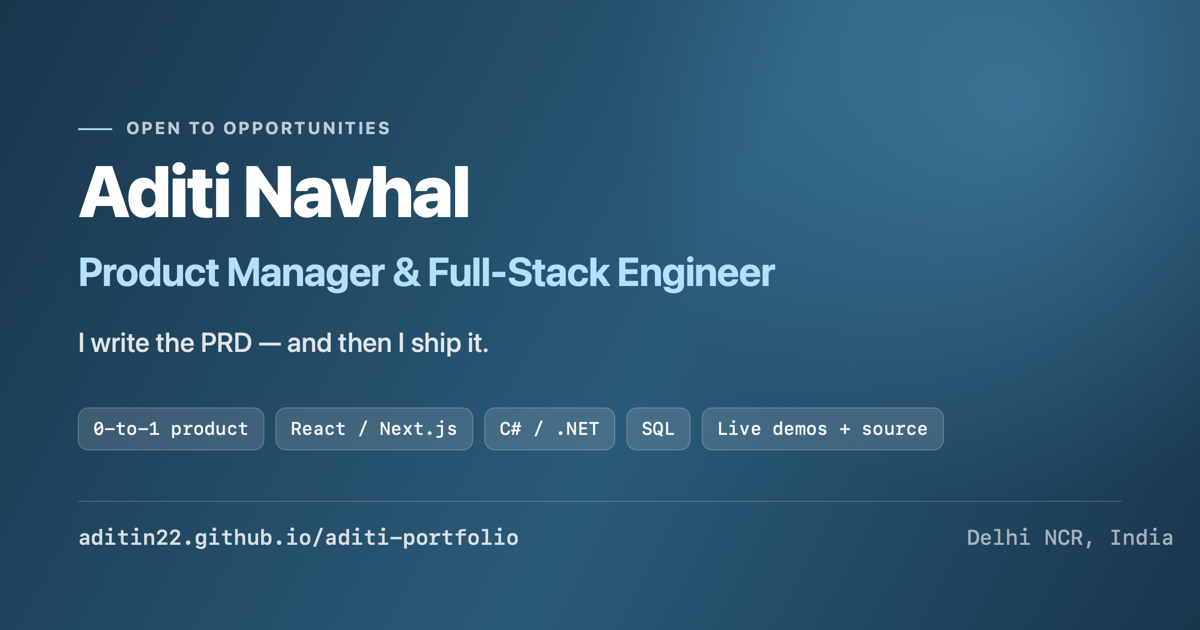
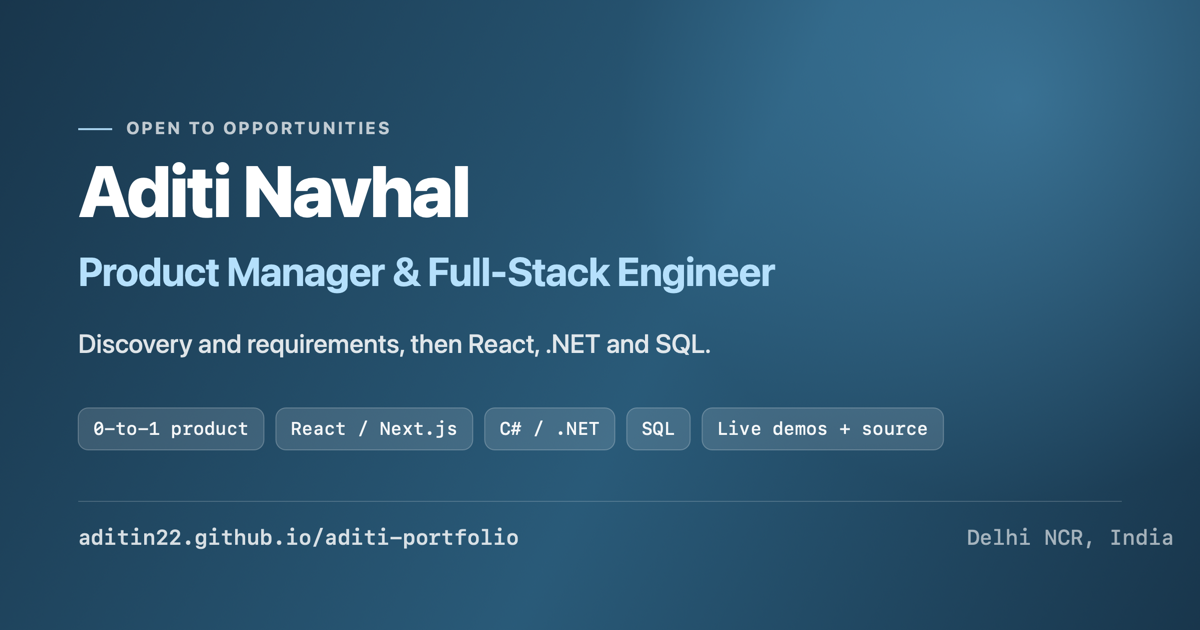
Label UrjaSetu as freelance, drop em dashes, quiet the copy
UrjaSetu was reading as a third employer. It is a freelance engagement:
labelled as one on the project card, in the experience timeline and in
the section copy, and the Experience heading no longer counts it as a
company.

Remove the em dash from the site and the OpenGraph card.

Tone pass so the work carries the claim rather than the wording: the
hero and band describe what the job involves instead of asserting it,
Aurora UI states what its CI does without the aside about other
libraries, and the roles line in Contact drops its editorial tail.

Changed region(s): [[0.0617, 0.5127, 0.5858, 0.573]]

diff --git a/src/data/resume.ts b/src/data/resume.ts
@@ -7,7 +7,7 @@ export const profile = {
   /** The two halves, named. Rendered as the hero's stack rail. */
   tagline: ['Discovery & PRDs', 'Roadmap', 'React / Next.js', 'C# / .NET', 'SQL'],
   positioning:
-    'I write the PRD and then I ship it. Three years across fintech, legaltech and industrial B2B - customer journeys, prioritisation and unit economics on one side; React, .NET and SQL on the other.',
+    'Three years across fintech, legaltech and industrial B2B. I run the discovery and write the requirements, then build the product in React, Next.js, C# and SQL.',
   years: 3,
   /** Served from public/; resolved against the Vite base at render time. */
   resumeFile: 'Aditi_Navhal_Resume.pdf',
@@ -22,7 +22,7 @@ export const profile = {
   linkedin: 'https://www.linkedin.com/in/aditi-navhal-952b57193/',
   github: 'https://github.com/aditin22',
   summary:
-    'Product-focused engineer with 3 years across fintech, legaltech and industrial B2B. I run discovery with stakeholders, author the PRDs and BRDs, own the roadmap - and then build the thing in React, Next.js, TypeScript and C#/.NET over SQL Server and PostgreSQL. Shipped a 0-to-1 buyer platform, a four-surface services platform that reached 500+ sign-ups in one filing season, an offline-to-cloud financial sync service, and a hedge-fund reconciliation platform modernisation.',
+    'Product-focused engineer with 3 years across fintech, legaltech and industrial B2B. I run discovery with stakeholders, author the PRDs and BRDs and own the roadmap, then build in React, Next.js, TypeScript and C#/.NET over SQL Server and PostgreSQL. Shipped a 0-to-1 buyer platform as a freelance engagement, a four-surface services platform that reached 500+ sign-ups in one filing season, an offline-to-cloud financial sync service, and a hedge-fund reconciliation platform modernisation.',
 }
 
 /** Six figures: three product outcomes, three engineering ones. */
@@ -81,10 +81,10 @@ export const projects: Project[] = [
     index: '01',
     name: 'UrjaSetu BioEnergy',
     kicker: '0-to-1 buyer platform for industrial biomass fuel',
-    org: 'Client project',
+    org: 'Freelance',
     period: 'Sep 2026 - Present',
     accent: 'data',
-    hat: 'Product Manager',
+    hat: 'Product + build',
     split: { product: 70, engineering: 30 },
     problem:
       'Factories across Delhi NCR buy boiler fuel over WhatsApp and phone calls - no published specifications, no comparable pricing, and no way to tell a real supplier from a broker reselling someone else’s stock.',
@@ -94,7 +94,7 @@ export const projects: Project[] = [
       'Shipped the first version for client review in October and folded their feedback straight back in; they now demo it to existing buyers ahead of an IndiaMART and Google launch. 15+ analytics events instrument quotes, recommendations, calculator runs and contacts.',
     links: [
       { label: 'Live site', href: 'https://urjasetu-alpha.vercel.app', kind: 'demo' },
-      { label: 'Repo is private - client project', href: '', kind: 'internal' },
+      { label: 'Repo is private, client work', href: '', kind: 'internal' },
     ],
     stack: ['Next.js', 'TypeScript', 'Tailwind CSS', 'Framer Motion', 'Vercel'],
   },
@@ -133,9 +133,9 @@ export const projects: Project[] = [
     problem:
       'Component libraries look right and fall apart the moment you unplug the mouse. The hard problems in a design system are focus management, keyboard navigation and ARIA relationships that stay correct as content changes.',
     did:
-      'Built 12 components with no headless-UI dependency - no Radix, no react-aria - implementing the focus trap, roving tabindex, typeahead, scroll lock and inert handling myself and exporting them as hooks, on a two-layer token system where dark mode redefines only the semantic layer.',
+      'Built 12 components with no headless-UI dependency, writing the focus trap, roving tabindex, typeahead, scroll lock and inert handling myself and exporting them as hooks, on a two-layer token system where dark mode redefines only the semantic layer.',
     happened:
-      'axe-core runs against every story and fails CI rather than filling a warning panel nobody reads. 16.3 kB brotli, ESM-only and correctly externalised, with every interaction test a story you can open and watch replay.',
+      'axe-core runs against every story and fails CI, so an accessibility regression blocks the build instead of landing. 16.3 kB brotli, ESM-only and correctly externalised, with every interaction test a story you can open and watch replay.',
     links: [
       { label: 'Live Storybook', href: 'https://aditin22.github.io/aurora-ui/storybook/', kind: 'demo' },
       { label: 'GitHub repo', href: 'https://github.com/aditin22/aurora-ui', kind: 'repo' },
@@ -191,6 +191,8 @@ export const projects: Project[] = [
 export type Role = {
   company: string
   companyNote?: string
+  /** Shown as a neutral chip where the engagement is not a staff role. */
+  kind?: string
   title: string
   location: string
   period: string
@@ -211,12 +213,13 @@ export type Role = {
 export const experience: Role[] = [
   {
     company: 'UrjaSetu BioEnergy',
-    title: 'Product Manager (client project)',
+    title: 'Product manager and developer',
+    kind: 'Freelance',
     location: 'Delhi NCR, India',
     period: 'Sep 2026 - Present',
     current: true,
     summary:
-      'Embedded with the client to take a biomass-fuel buyer platform from discovery to production - stakeholder interviews, PRDs and BRDs, the roadmap, and the quote funnel itself, with a 2-person engineering team.',
+      'A freelance engagement taking a biomass-fuel buyer platform from discovery to production: stakeholder interviews, PRDs and BRDs, the roadmap, and the quote funnel itself, with a 2-person engineering team.',
     caseStudies: ['urjasetu'],
     projects: [
       {

diff --git a/index.html b/index.html
@@ -6,7 +6,7 @@
     <title>Aditi Navhal | Product Manager &amp; Full-Stack Engineer</title>
     <meta
       name="description"
-      content="Product manager and full-stack engineer, 3 years across fintech, legaltech and industrial B2B. Discovery, PRDs and roadmap - then React, Next.js, C#/.NET and SQL. Live projects and source linked."
+      content="Product manager and full-stack engineer, 3 years across fintech, legaltech and industrial B2B. Discovery, PRDs and roadmap, then React, Next.js, C#/.NET and SQL. Live projects and source linked."
     />
     <link rel="canonical" href="https://aditin22.github.io/aditi-portfolio/" />
     <link rel="icon" type="image/svg+xml" href="/favicon.svg" />
@@ -19,12 +19,12 @@
     <meta property="og:title" content="Aditi Navhal | Product Manager &amp; Full-Stack Engineer" />
     <meta
       property="og:description"
-      content="I write the PRD and then I ship it. Five projects - a 0-to-1 buyer platform, a four-surface services platform, an open-source component library, and two financial systems - each with the problem, my part, the outcome and a link."
+      content="Five projects, each with the problem, what I did, what happened and a link: a freelance 0-to-1 buyer platform, a four-surface services platform, an open-source component library and two financial systems."
     />
     <meta property="og:image" content="https://aditin22.github.io/aditi-portfolio/og.png" />
     <meta property="og:image:width" content="1200" />
     <meta property="og:image:height" content="630" />
-    <meta property="og:image:alt" content="Aditi Navhal - Product Manager and Full-Stack Engineer. Discovery and PRDs, React, Next.js, C# / .NET, SQL." />
+    <meta property="og:image:alt" content="Aditi Navhal, Product Manager and Full-Stack Engineer. Discovery and PRDs, React, Next.js, C# / .NET, SQL." />
     <meta property="og:site_name" content="Aditi Navhal" />
 
     <!-- Twitter / X -->
@@ -32,7 +32,7 @@
     <meta name="twitter:title" content="Aditi Navhal | Product Manager &amp; Full-Stack Engineer" />
     <meta
       name="twitter:description"
-      content="I write the PRD and then I ship it. Five projects, each with the problem, my part, the outcome and a link."
+      content="Five projects, each with the problem, what I did, what happened and a link."
     />
     <meta name="twitter:image" content="https://aditin22.github.io/aditi-portfolio/og.png" />
 

diff --git a/src/components/Experience.tsx b/src/components/Experience.tsx
@@ -18,9 +18,9 @@ export function Experience() {
     <section id="experience" className="mx-auto max-w-shell px-6 py-16 md:py-[68px]">
       <SectionHead
         eyebrow="Experience"
-        title="Three years, three companies,"
-        accent="and both sides of the table."
-        blurb="Writing the requirements and then writing the code - fintech, legaltech and industrial B2B, where a duplicate write is a real problem and a slow report costs someone their evening."
+        title="Where the work"
+        accent="happened."
+        blurb="Two companies and one freelance engagement, across fintech, legaltech and industrial B2B, where a duplicate write is a real problem and a slow report costs someone their evening."
       />
 
       <div ref={ref} className="relative pl-8 md:pl-12">
@@ -52,6 +52,11 @@ export function Experience() {
                     <span className="inline-flex items-center gap-1.5 rounded-full border border-line bg-surface px-2.5 py-1 text-[11.5px] font-medium text-ink-2">
                       <span className="live-dot" />
                       Current
+                    </span>
+                  )}
+                  {role.kind && (
+                    <span className="rounded-full border border-line px-2.5 py-1 text-[11.5px] font-medium text-ink-3">
+                      {role.kind}
                     </span>
                   )}
                 </div>

diff --git a/src/components/Projects.tsx b/src/components/Projects.tsx
@@ -195,7 +195,7 @@ export function Projects() {
           eyebrow="Selected work"
           title="Five projects."
           accent="The problem, my part, the outcome, the link."
-          blurb="Two I led as product and built as an engineer, one I open-sourced, two that run inside financial institutions. Same four questions each time."
+          blurb="A freelance platform taken from discovery to launch, a services platform owned at work, an open-source library, and two systems running inside financial institutions. The same four questions for each."
         />
 
         <Reveal>
@@ -208,8 +208,8 @@ export function Projects() {
               <Github size={13} aria-hidden="true" /> {repos} open-source repository
             </span>
             <span className="text-ink-3">
-              Client and employer code stays private - where there is no repository to show, there
-              is a live product or an interactive architecture diagram instead.
+              Client and employer code stays private. Where there is no repository to show, there is
+              a live product or an interactive architecture diagram instead.
             </span>
           </p>
         </Reveal>

diff --git a/src/components/Contact.tsx b/src/components/Contact.tsx
@@ -36,9 +36,8 @@ export function Contact() {
           >
             I'm interested in <strong className="font-semibold text-white">Product Manager</strong>,{' '}
             <strong className="font-semibold text-white">Product Engineer</strong> and{' '}
-            <strong className="font-semibold text-white">Full-Stack Engineer</strong> roles - the ones
-            where owning the problem and shipping the code are the same job. Email is the fastest way
-            to reach me.
+            <strong className="font-semibold text-white">Full-Stack Engineer</strong> roles. Email is
+            the fastest way to reach me.
           </p>
         </Reveal>
 

diff --git a/src/components/FeaturedWork.tsx b/src/components/FeaturedWork.tsx
@@ -145,7 +145,7 @@ export function FeaturedWork() {
           eyebrow="Engineering deep dives"
           title="Three of them,"
           accent="taken apart."
-          blurb="The same systems again - this time with what I owned line by line, the decisions that made them hold up, and the architecture behind each one."
+          blurb="The same systems again, this time with what I owned line by line, the decisions that made them hold up, and the architecture behind each one."
         />
         <div className="space-y-6">
           {caseStudies.map((cs, i) => (

diff --git a/src/components/Skills.tsx b/src/components/Skills.tsx
@@ -106,9 +106,9 @@ export function Skills() {
       <div className="mx-auto max-w-shell px-6 py-16 md:py-[68px]">
         <SectionHead
           eyebrow="Toolkit"
-          title="Everything I actually"
+          title="What I"
           accent="work with."
-          blurb="Seven layers, discovery down to cloud - each one listed with the project it carried in production."
+          blurb="Seven layers, discovery down to cloud, each listed with the project it carried in production."
         />
 
         <div className="space-y-3.5">

diff --git a/src/components/Impact.tsx b/src/components/Impact.tsx
@@ -38,7 +38,7 @@ export function Impact() {
           eyebrow="Measured impact"
           title="The numbers,"
           accent="drawn."
-          blurb="Every figure here is one I own from a shipped system - what the product did, and what the engineering did to let it."
+          blurb="Every figure here comes from a system that shipped: what the product did, and what the engineering did to let it."
         />
 
         <RevealGroup className="grid gap-5 sm:grid-cols-2 lg:grid-cols-4">

diff --git a/src/components/Band.tsx b/src/components/Band.tsx
@@ -17,9 +17,9 @@ export function Band() {
           </Reveal>
           <Reveal delay={0.06}>
             <h2 className="t-display text-white">
-              I write the PRD
+              Requirements and code,
               <br />
-              <span className="t-acc">— and then I ship it.</span>
+              <span className="t-acc">written by the same person.</span>
             </h2>
           </Reveal>
           <Reveal delay={0.12}>
